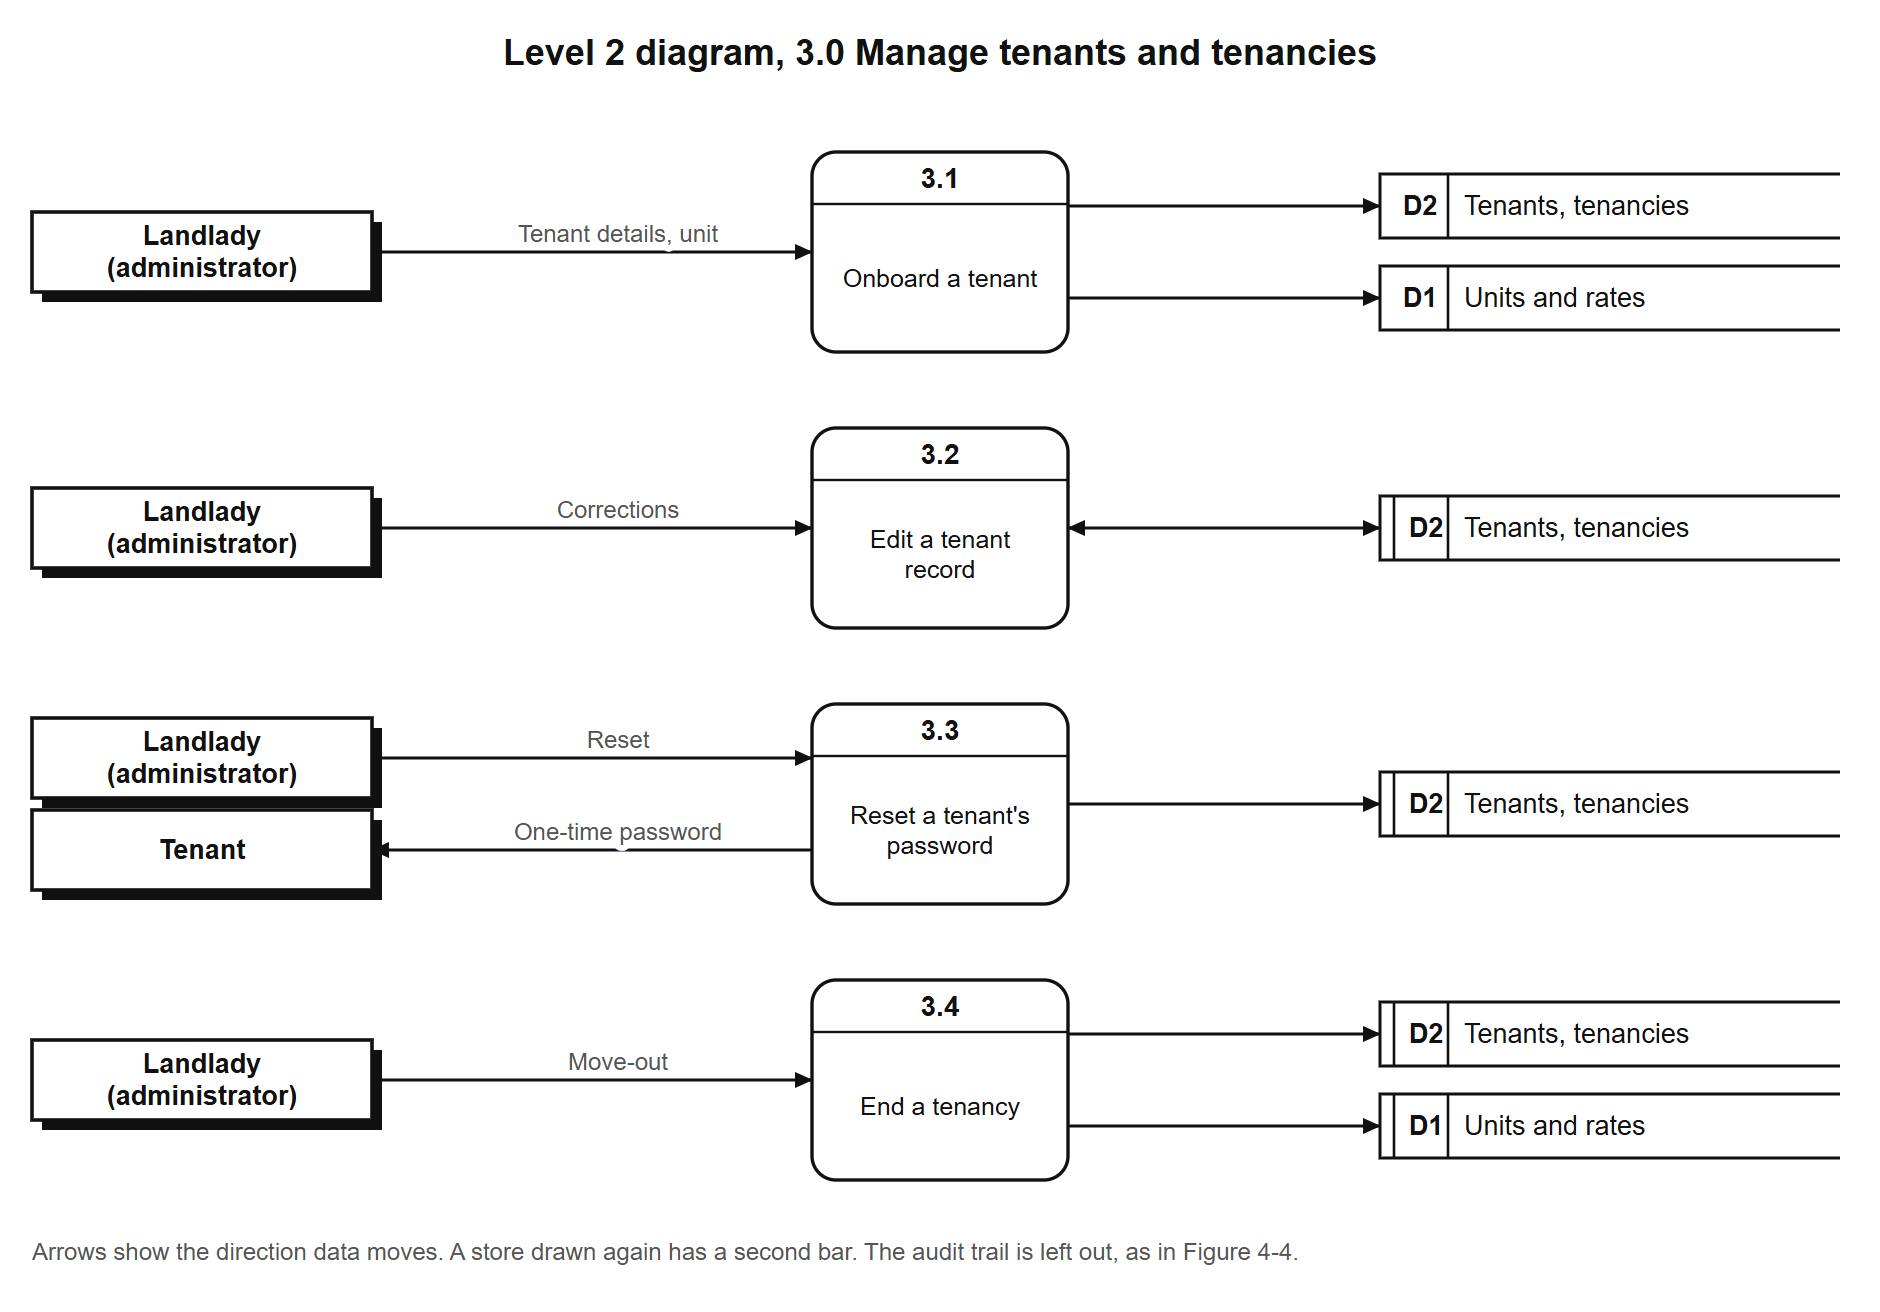
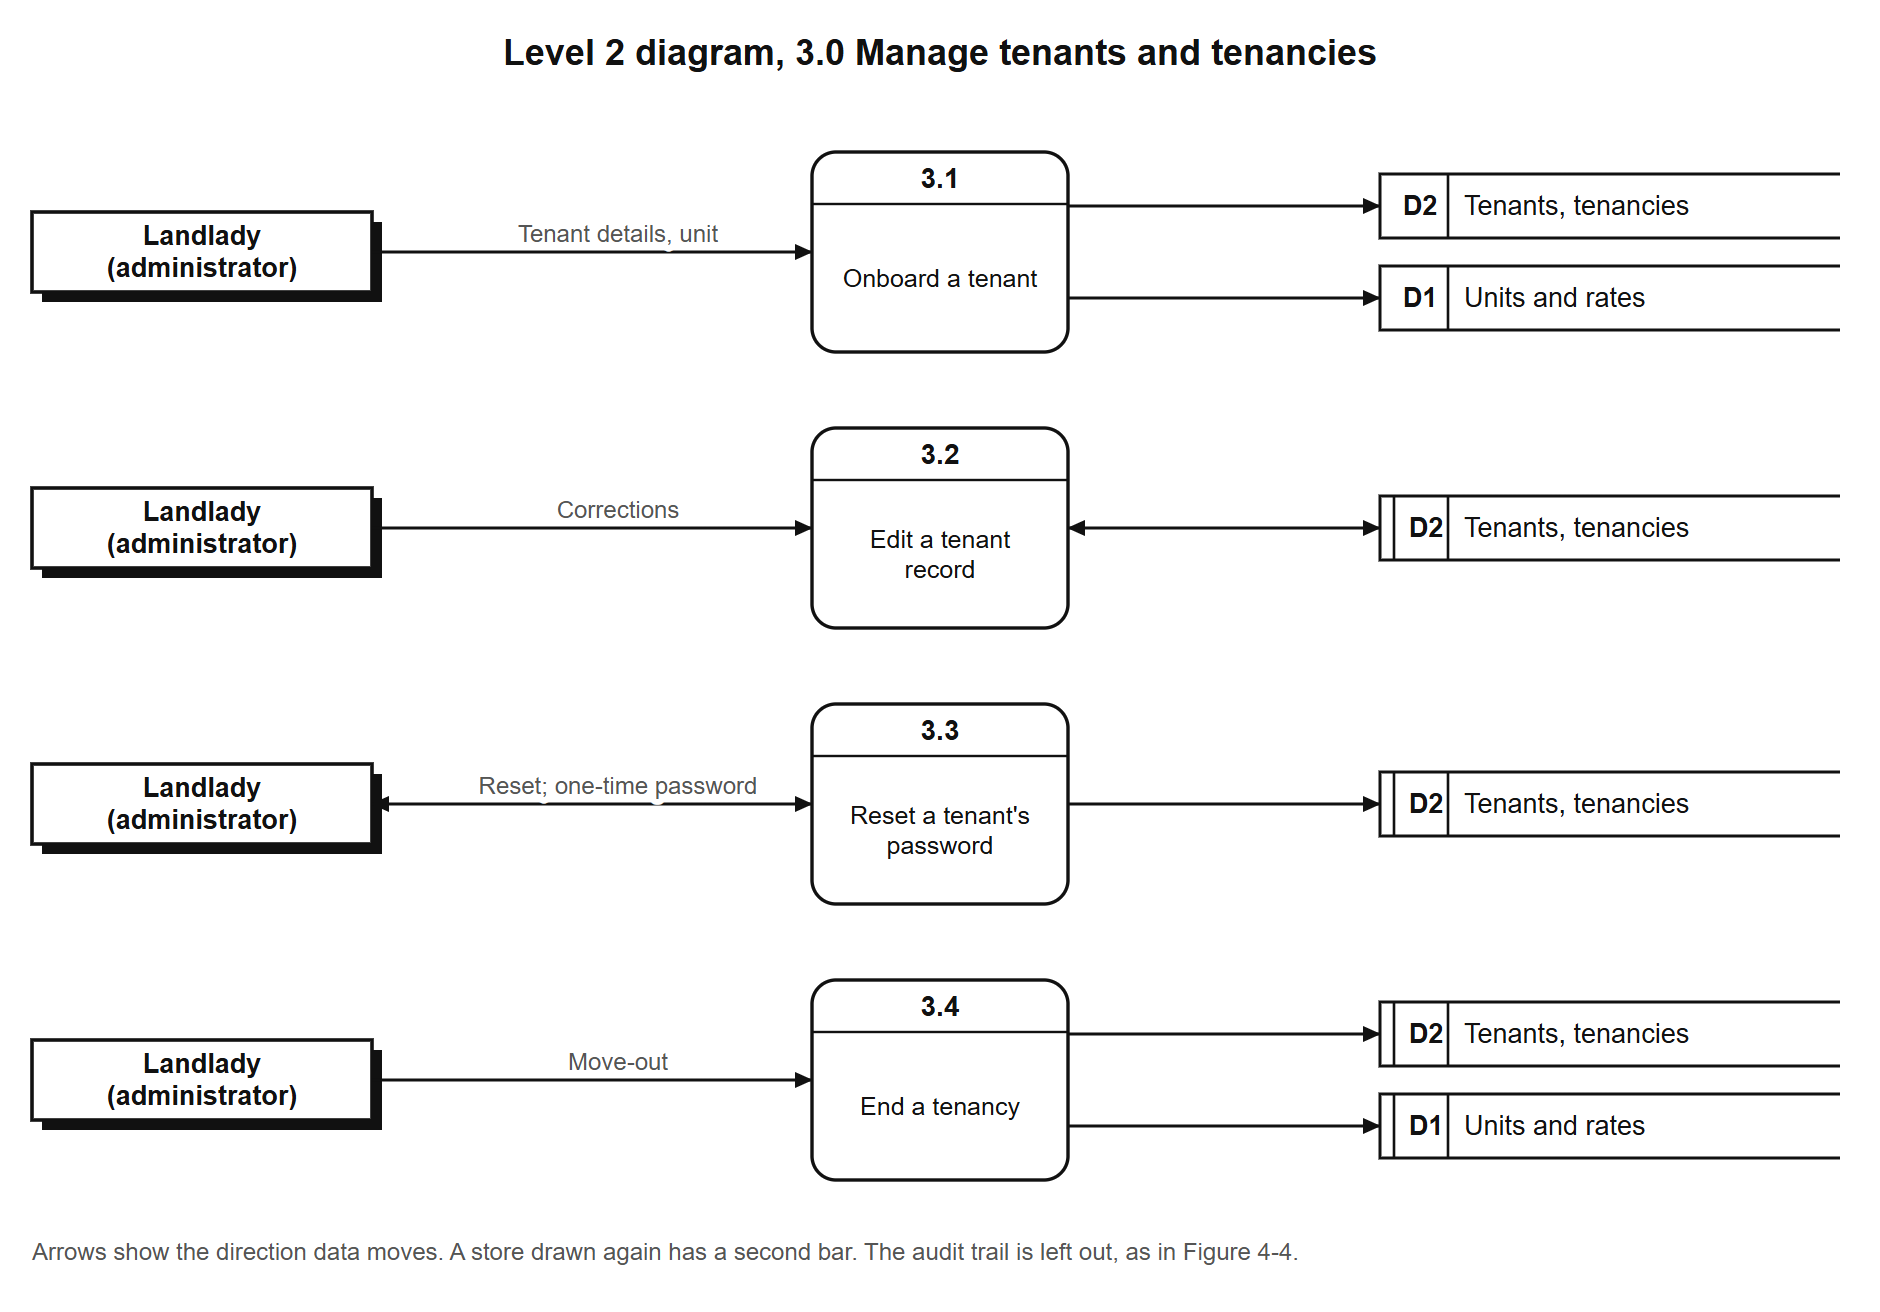
Data flow diagrams: Level 2 agrees with what the steps read, and the text says what Level 1 leaves out
Strict review, 13 Nov 2026. Appendix F said each Level 2 diagram "uses only the
stores its process uses" in Figure 4-4. That was not true for three processes:
Figure 4-4 gives 4.0 the stores D2 and D3 while F-4 gave it D1 and D3, and F-3
and F-5 write to D1, which Figure 4-4 does not connect to 3.0 or 5.0. A panelist
who checks balancing would find it.

- F-4, step 4.1 (raise a bill): now reads D2 as well as D1. The bill is the
  unit's rate plus PHP 200 for each occupant of the tenancy (BR-014).
- F-3, step 3.3 (reset a password): the one-time password goes back to the
  landlady, who hands it over in person (Appendix L, A-36). It was drawn as a
  flow to the tenant, an entity process 3.0 does not have in Figure 4-4.
- Figure 4-4: 2.0, 3.0 and 6.0 also answer the landlady (steps 2.1, 3.3, 6.4),
  so those three flows are two-headed.
- Appendix F and Section 4.2.1 now say plainly that Figure 4-4 draws each
  process with its main stores, and that 3.0, 4.0 and 5.0 also read or update
  the units store, shown in Appendix F.

Still to do: redraw Figure 4-4 with D1 connected to 3.0, 4.0 and 5.0.

Changed region(s): [[0.0, 0.5312, 0.216, 0.6875], [0.2468, 0.5625, 0.4319, 0.6562]]

diff --git a/FINAL/appendices/APPENDIX_F_CHILD_DATA_FLOW_DIAGRAMS.md b/FINAL/appendices/APPENDIX_F_CHILD_DATA_FLOW_DIAGRAMS.md
@@ -4,7 +4,9 @@ Figures F-1 to F-8 open each of the eight processes of the level 1 diagram (Figu
 in the Gane and Sarson notation used for Figures 4-3 and 4-4. A rounded rectangle is a process, with its
 number in the band across the top. A rectangle open on the right is a data store. A shaded square is
 an external entity. Each step is one operation the system's screens perform. The stores and external
-entities keep the names of Figure 4-4, and each diagram uses only the stores its process uses there.
+entities keep the names of Figure 4-4. Each diagram shows every store its steps read or write. Figure 4-4
+draws each process with its main stores only, so the diagrams of processes 3.0, 4.0 and 5.0 also show
+the units store (D1), which those steps read or update.
 Adyen, the payment gateway, is part of the payment process rather than an external entity, so it
 appears on no diagram as an entity. Taking a GCash payment through it is step 4.3 of Figure F-4.
 

diff --git a/FINAL/_src/appendices/APPENDIX_F_CHILD_DATA_FLOW_DIAGRAMS.md b/FINAL/_src/appendices/APPENDIX_F_CHILD_DATA_FLOW_DIAGRAMS.md
@@ -4,7 +4,9 @@ Figures F-1 to F-8 open each of the eight processes of the level 1 diagram (Figu
 in the Gane and Sarson notation used for Figures 6 and 7. A rounded rectangle is a process, with its
 number in the band across the top. A rectangle open on the right is a data store. A shaded square is
 an external entity. Each step is one operation the system's screens perform. The stores and external
-entities keep the names of Figure 7, and each diagram uses only the stores its process uses there.
+entities keep the names of Figure 7. Each diagram shows every store its steps read or write. Figure 7
+draws each process with its main stores only, so the diagrams of processes 3.0, 4.0 and 5.0 also show
+the units store (D1), which those steps read or update.
 Adyen, the payment gateway, is part of the payment process rather than an external entity, so it
 appears on no diagram as an entity. Taking a GCash payment through it is step 4.3 of Figure F-4.
 
